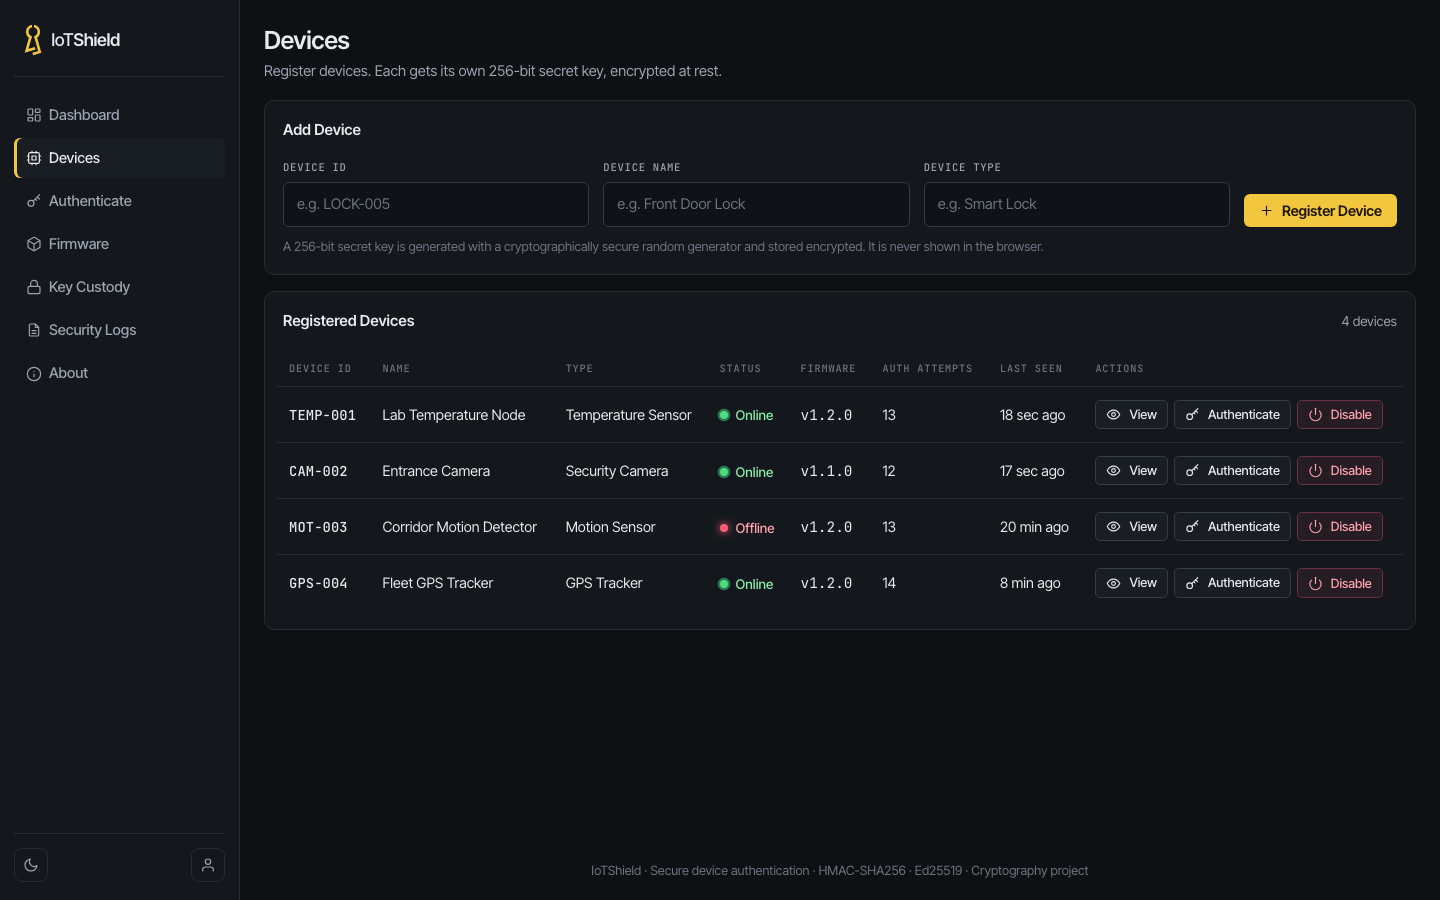
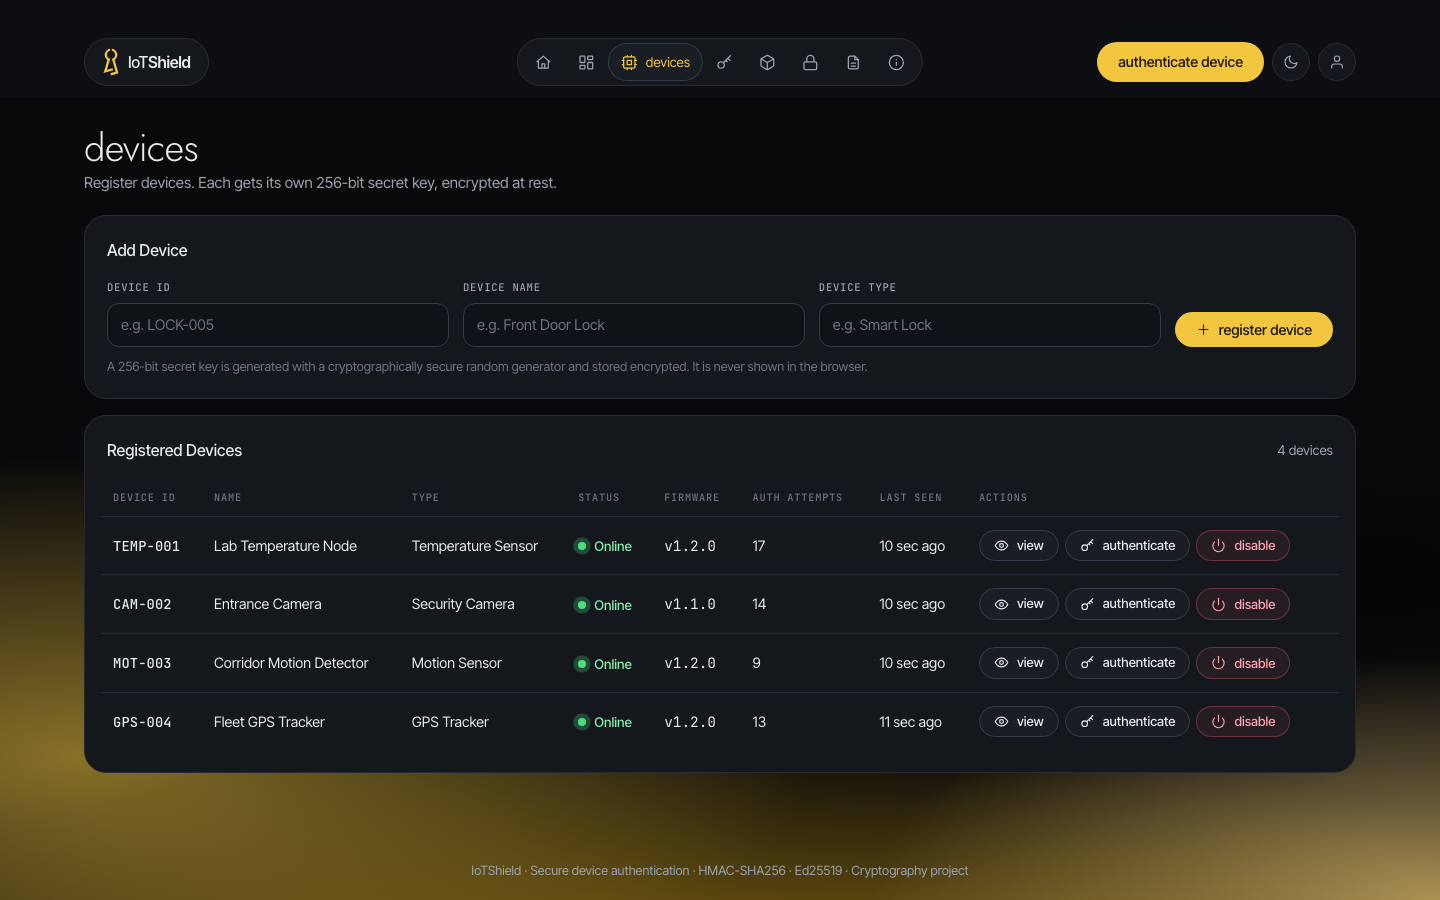
Update README and screenshots for the new Home and Dashboard

diff --git a/README.md b/README.md
@@ -38,8 +38,9 @@ IoTShield answers each of these with a standard cryptographic technique and lets
 - **Key Custody:** split the master key into shares (default 3-of-5), seal the vault so the key file is deleted from disk, unseal with enough shares
 - **Master-key rotation:** a crash-safe, all-or-nothing re-encryption that makes leaked shares useless
 - Admin protection: password plus emailed 6-digit code, CSRF tokens, rate limiting, 5-minute inactivity sign-out
-- Live dashboard, device list, firmware page with update log, and a full security log
-- Light and dark theme
+- **Home** landing page after login, and a live **Dashboard** with device counters, fleet status, key-vault and firmware status, recent activity and an hourly attempts chart
+- Device list, firmware page with update log, and a full security log
+- Light and dark theme, with icon navigation (hover an icon to see its name)
 - Device simulator for demos, including attack modes
 - 88 automated tests
 
@@ -104,7 +105,8 @@ Device downloads image, then:
 
 | Page | Purpose |
 |---|---|
-| Dashboard | Live fleet statistics and device status |
+| Home | Landing page after login, with shortcuts to authentication, firmware and key custody |
+| Dashboard | Devices registered, authenticated and failed, success rate, fleet status, security status (key vault, firmware), recent activity and an hourly attempts chart |
 | Devices | Add, view and manage devices |
 | Authenticate | Run the 4-step challenge–response step by step |
 | Firmware | Publish signed firmware, view the update log and fleet versions |
@@ -116,13 +118,18 @@ Device downloads image, then:
 
 ## Screenshots
 
+### Home
+The landing page after login, with shortcuts to the main areas.
+
+![Home](docs/images/home.png)
+
 ### Dashboard
-Live fleet statistics and per-device status (online, authenticating, offline).
+Devices registered, authenticated and failed, the success rate, fleet status, security status (key vault and firmware), recent activity, and an hourly chart of successful and failed attempts.
 
 ![Dashboard](docs/images/dashboard.png)
 
 ### Devices
-Register devices. Each gets its own 256-bit secret key, stored encrypted and never shown in the browser.
+Register and manage devices. Each gets its own 256-bit secret key, stored encrypted and never shown in the browser.
 
 ![Devices](docs/images/devices.png)
 
